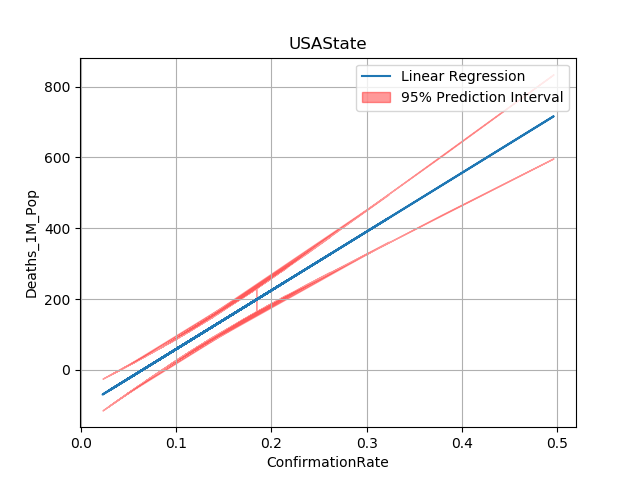
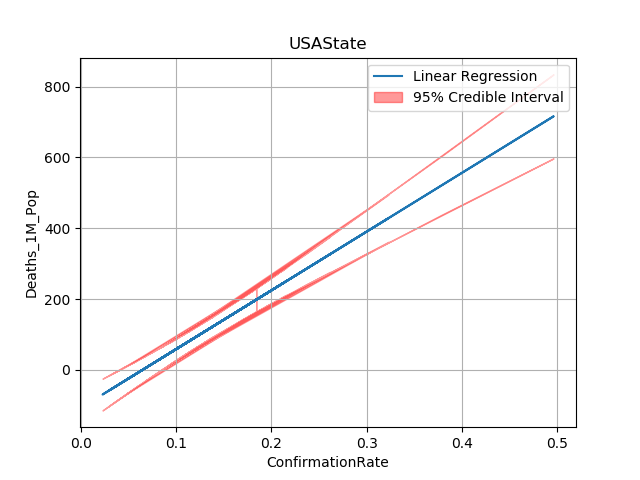
Adding Prediction interval

Changed region(s): [[0.5625, 0.125, 0.875, 0.2188]]

diff --git a/Python/Statistics/LinearRegression.py b/Python/Statistics/LinearRegression.py
@@ -52,7 +52,7 @@ class LinearRegression(LinearRegressionBase):
         print("Precision is: {}".format(precision))
         return precision
 
-    def plotCredibility(self, ci = None, pred = False, both = False):
+    def plotCredibility(self, ci = None, pred = False):
         if ci is None:
             ci = self.Interval(0.05)
 
@@ -60,10 +60,10 @@ class LinearRegression(LinearRegressionBase):
         plt.plot(self.X, self.y, label='Linear Regression')
 
         if pred:
-            plt.fill_between(self.X, self.PI[0], self.PI[1], color='g', alpha=.2, label='95% Credible Interval')
+            plt.fill_between(self.X, self.PI[0], self.PI[1], color='g', alpha=.2, label='95% Prediction Interval')
             plt.plot(self.X, self.Y, 'k.', label='Scatter plot')
 
-        plt.fill_between(self.X, self.CI[0], self.CI[1], color='r', alpha=.4, label='95% Prediction Interval')
+        plt.fill_between(self.X, self.CI[0], self.CI[1], color='r', alpha=.4, label='95% Credible Interval')
 
         plt.title(self.title)
         plt.xlabel(self.xlabel)
